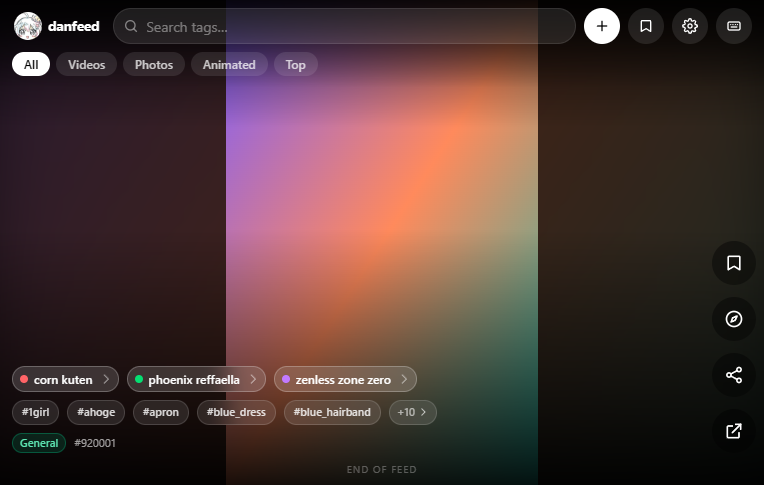
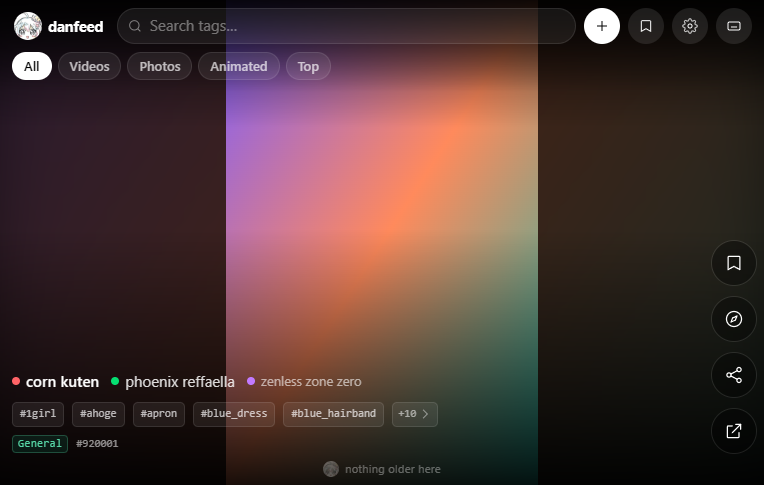
Show the new look on the repository page
docs/feed.png, related.png and shortcuts.png are re-shot from the new build: the
same three states, read through the new type. The page says what the setting is
rather than leaving a visitor to wonder — the caption names the gallery label, the
mono codes and the chrome that steps back, the rating row mentions the stamp beside
the wordmark, and the quiet chrome gets a row of its own in "What it does", since
wondering why the tags faded is a worse experience than reading why they do.

The screenshots command is unchanged; only what it renders has moved.

diff --git a/README.md b/README.md
@@ -15,8 +15,10 @@ Pure client-side: no backend, no accounts, no build server. Everything it needs 
 <img src="docs/feed.png" width="250" alt="A post in the feed: media, tag chips, and the actions rail"> <img src="docs/related.png" width="250" alt="The More like this sheet, listing tags Danbooru sees alongside the artist"> <img src="docs/shortcuts.png" width="250" alt="The keyboard map, listed in the app">
 
 A post, "More like this", and the keyboard map. All three come from `npm run shots -- --readme`:
-the real build, screenshotted in headless Chrome against a placeholder image. No artwork is
-included in this repository — every image the app shows is loaded from Danbooru at runtime.
+the real build, screenshotted in headless Chrome against a placeholder image. The setting is
+deliberate: a gallery label under each post, tags in mono because they are codes rather than names,
+and chrome that steps back once you stop touching it. No artwork is included in this repository —
+every image the app shows is loaded from Danbooru at runtime.
 
 ## What it does
 
@@ -32,7 +34,7 @@ included in this repository — every image the app shows is loaded from Danboor
 | More like this | Tap the compass — or press `r` — for what Danbooru sees alongside the post's artist (or character, or series); every row is a search, at this browser's rating. The list ahead is prefetched only after the sheet has been opened once |
 | Fetch ahead | The next page is asked for once a few slides are left, not when the bottom arrives |
 | Tag actions | Hold a tag chip — or right-click it — to search it here, open it on Danbooru, read its wiki, or copy the search link |
-| Rating | Safe by default; Moderate/Everything opt-in per browser |
+| Rating | Safe by default; Moderate/Everything opt-in per browser, with the mode stamped beside the wordmark |
 | Recent searches | An empty search box offers your last few searches; tap one to run it again |
 | Backup | Saved posts, recent searches and settings to one JSON file — and back in, merged |
 | Share | Copy the post link, the media link, or a `?q=` link that opens this search elsewhere |
@@ -41,7 +43,8 @@ included in this repository — every image the app shows is loaded from Danboor
 | Keyboard | `↑`/`↓` or `j`/`k` scroll · `space` pause · `m` mute · `s` save — `?` lists the rest |
 | Failures | A dropped connection or a 5xx is retried twice before the error card; a 4xx is final |
 | Offline shell | A service worker keeps the app itself cached, so it opens without a network (the API and the media still need one) |
-| Motion | `prefers-reduced-motion` stops the autoplay, the gliding scroll and the sheet animations |
+| Quiet chrome | Four seconds without a touch and the label and the rail step back to a quarter; any pointer, key or new slide brings them straight back |
+| Motion | `prefers-reduced-motion` stops the autoplay, the gliding scroll, the caption settle and the sheet animations |
 
 ## Deliberate limits
 
